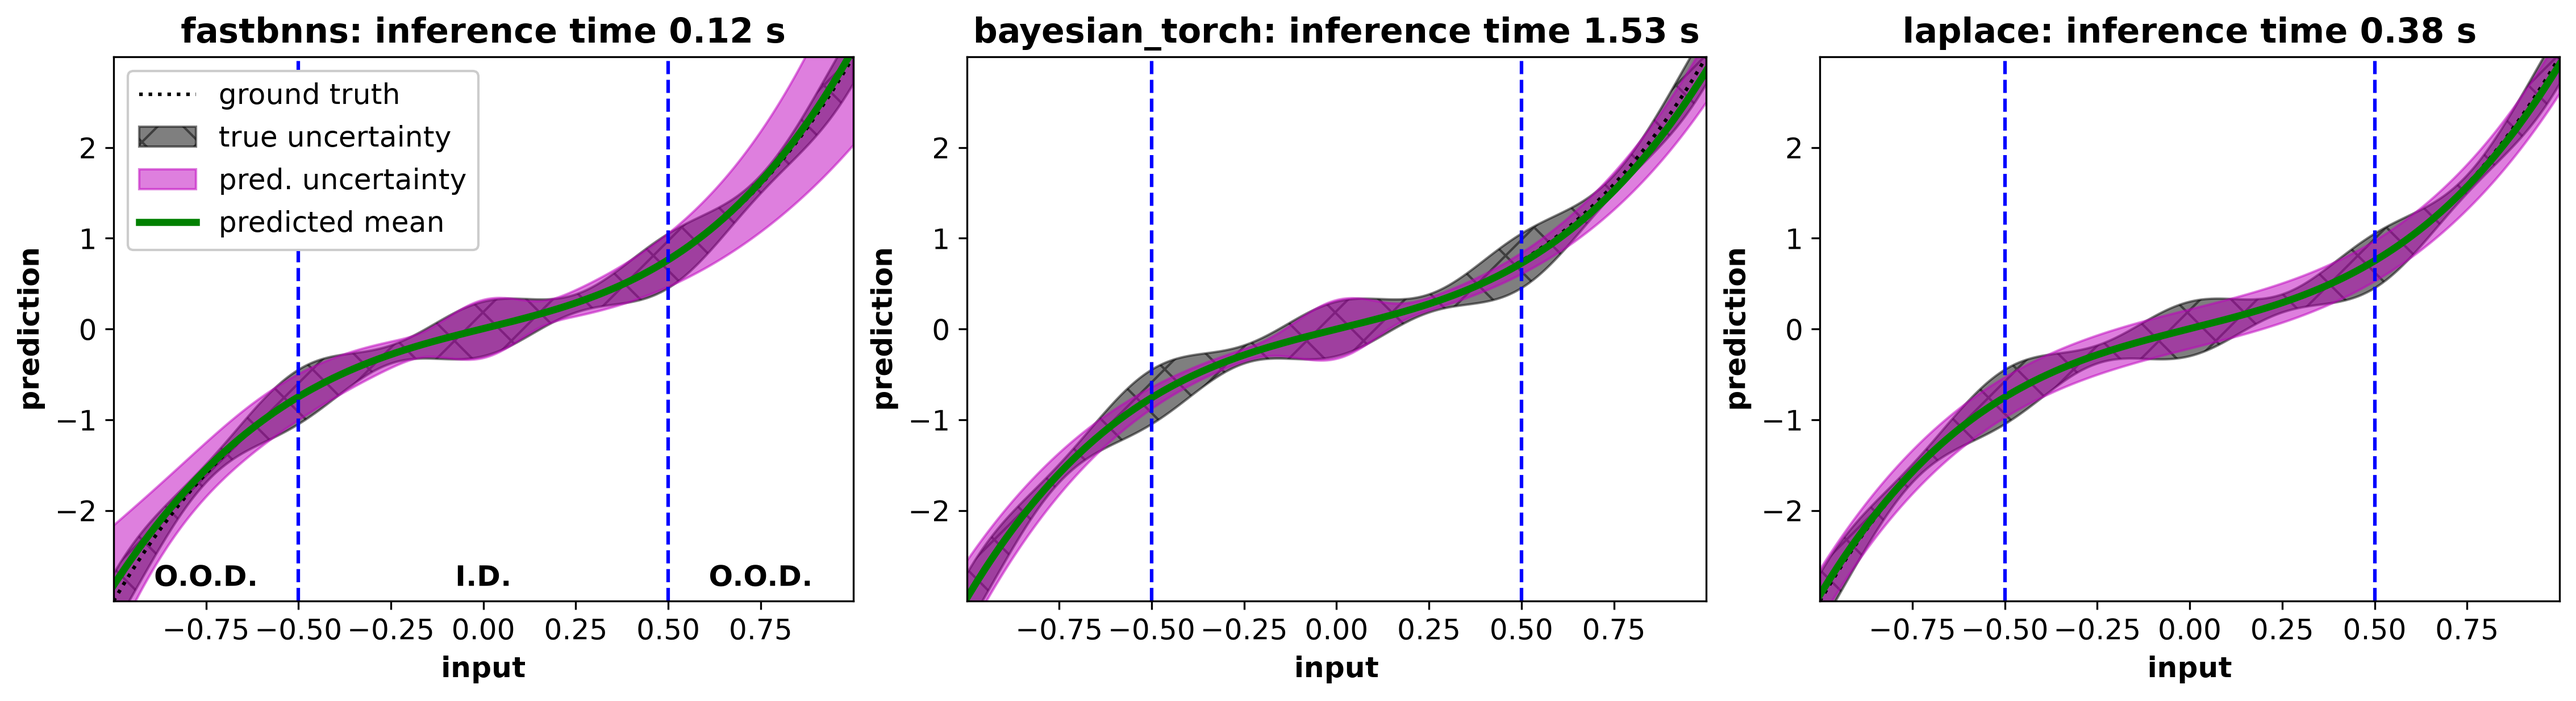
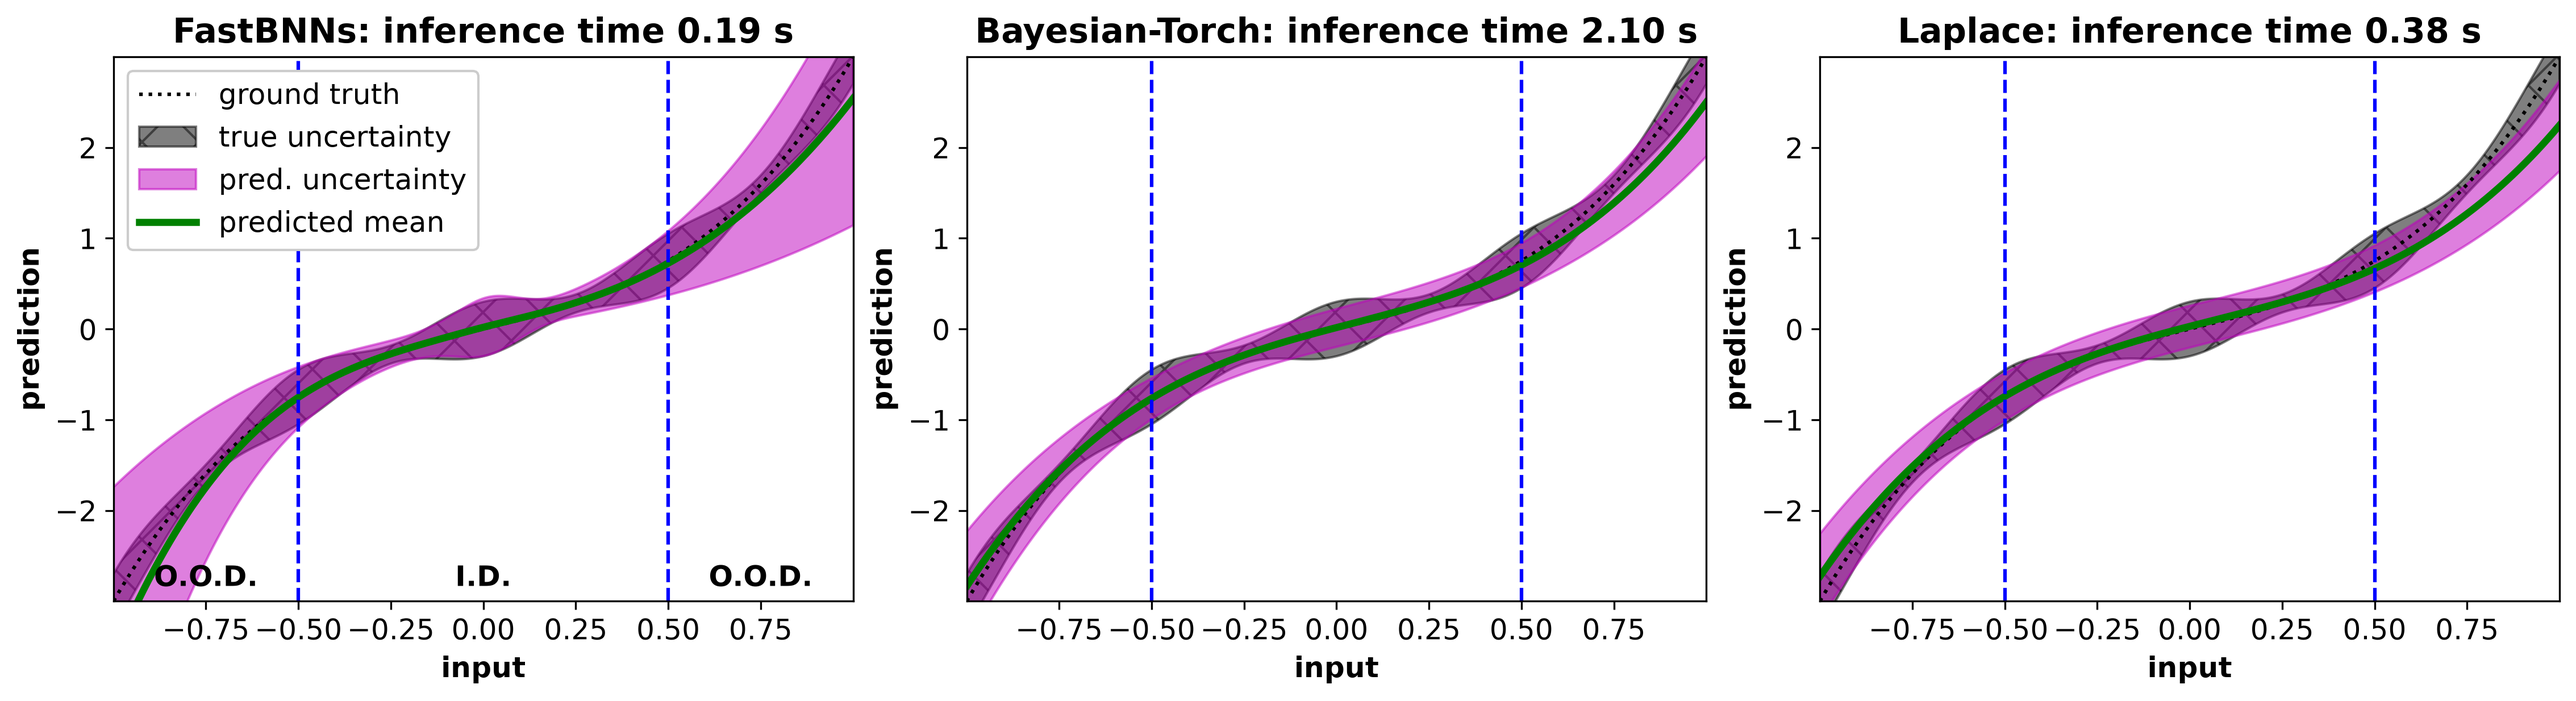
Fix bug in comparison code (#27)

diff --git a/comparisons/polynomial.py b/comparisons/polynomial.py
@@ -75,8 +75,8 @@ noise_tform = observation.NoiseTransform(
         "sigma": lambda x: 0.1 + 0.2 * (torch.cos(2.0 * torch.pi * x) ** 2)
     },
 )
-n_data = 1024 * 5
-batch_size = 1024
+n_data = 1024
+batch_size = 128
 ds_train = polynomial.Polynomial(
     data_generator=data_generator,
     dataset_length=n_data,
@@ -84,7 +84,7 @@ ds_train = polynomial.Polynomial(
     cache=True,  # set False to use fresh data every epoch
 )
 dl_train = torch.utils.data.DataLoader(dataset=ds_train, batch_size=batch_size)
-n_data_val = 1024
+n_data_val = 128
 ds_val = polynomial.Polynomial(
     data_generator=data_generator,
     dataset_length=n_data_val,
@@ -162,7 +162,7 @@ for epoch in range(n_epochs_max):
             f"epoch {epoch + 1} of {n_epochs_max}: train mse = {avg_loss_train}, val mse = {avg_loss_val}"
         )
         if stop_early:
-            print(f"Stopping early at epoch {epoch} due to val loss plateau")
+            print(f"Stopping early at epoch {epoch + 1} due to val loss plateau")
             break
 
 nn.load_state_dict(best_model_state_dict_nn)
@@ -285,7 +285,7 @@ for epoch in range(n_epochs_max):
             f"epoch {epoch + 1} of {n_epochs_max}: train -ELBO = {avg_loss_train}, val -ELBO = {avg_loss_val}, {100.0 * torch.mean(torch.stack(within_1sigma_epoch_val)):.2f}% within 1 st. dev."
         )
         if stop_early:
-            print(f"Stopping early at epoch {epoch} due to val loss plateau")
+            print(f"Stopping early at epoch {epoch + 1} due to val loss plateau")
             break
 
 bnn.load_state_dict(best_model_state_dict_fastbnns)
@@ -398,12 +398,12 @@ for epoch in range(n_epochs_max):
             f"epoch {epoch + 1} of {n_epochs_max}: train -ELBO = {avg_loss_train}, val -ELBO = {avg_loss_val}, {100.0 * torch.mean(torch.stack(within_1sigma_epoch_val)):.2f}% within 1 st. dev."
         )
         if stop_early:
-            print(f"Stopping early at epoch {epoch} due to val loss plateau")
+            print(f"Stopping early at epoch {epoch + 1} due to val loss plateau")
             break
 
 bnn_bayestorch.load_state_dict(best_model_state_dict_bayestorch)
 
-# Use laplace-torch to get a BNN from pretrained NN.
+# Use Laplace to get a BNN from pretrained NN.
 prior_precision = 1.0 / prior_sigma**2
 la = laplace.DiagLaplace(
     nn,
@@ -542,7 +542,7 @@ ax[0].plot(
     linestyle="-",
     label="predicted mean",
 )
-ax[0].set_title(f"fastbnns: inference time {t_fastbnns:.2f} s")
+ax[0].set_title(f"FastBNNs: inference time {t_fastbnns:.2f} s")
 ax[0].set_xlabel("input")
 ax[0].set_ylabel("prediction")
 ax[0].set_xlim((x.min(), x.max()))
@@ -568,7 +568,7 @@ y_var_aleatoric_bayestorch = (
 y_var_epistemic_bayestorch = (
     output_bayestorch[1][:, 0].detach().cpu().squeeze()[sort_inds]
 )
-yerr_bayestorch = (y_var_aleatoric_fastbnns + y_var_epistemic_bayestorch).sqrt()
+yerr_bayestorch = (y_var_aleatoric_bayestorch + y_var_epistemic_bayestorch).sqrt()
 ax[1].plot(x, y_gt, color="k", linestyle=":", label="ground truth")
 ax[1].fill_between(
     x=x,
@@ -596,7 +596,7 @@ ax[1].plot(
     linestyle="-",
     label="predicted mean",
 )
-ax[1].set_title(f"bayesian_torch: inference time {t_bayestorch:.2f} s")
+ax[1].set_title(f"Bayesian-Torch: inference time {t_bayestorch:.2f} s")
 ax[1].set_xlabel("input")
 ax[1].set_ylabel("prediction")
 ax[1].set_xlim((x.min(), x.max()))
@@ -637,7 +637,7 @@ ax[2].plot(
     linestyle="-",
     label="predicted mean",
 )
-ax[2].set_title(f"laplace: inference time {t_laplace:.2f} s")
+ax[2].set_title(f"Laplace: inference time {t_laplace:.2f} s")
 ax[2].set_xlabel("input")
 ax[2].set_ylabel("prediction")
 ax[2].set_xlim((x.min(), x.max()))
@@ -649,25 +649,25 @@ plt.close(fig)
 
 # Test set MSEs:
 loss_mse = torch.nn.MSELoss(reduction="mean")
-print(f"test set MSE fastbnns: {loss_mse(input=y_fastbnns, target=observations)}")
+print(f"test set MSE FastBNNs: {loss_mse(input=y_fastbnns, target=observations)}")
 print(
-    f"test set MSE bayesian-torch: {loss_mse(input=y_bayestorch, target=observations)}"
+    f"test set MSE Bayesian-Torch: {loss_mse(input=y_bayestorch, target=observations)}"
 )
-print(f"test set MSE laplace: {loss_mse(input=y_laplace, target=observations)}")
+print(f"test set MSE Laplace: {loss_mse(input=y_laplace, target=observations)}")
 
 # Test set likelihoods:
 loss_gnll = torch.nn.GaussianNLLLoss(reduction="mean")
 print(
-    f"test set GNLL fastbnns: {loss_gnll(input=y_fastbnns, target=observations, var=yerr_fastbnns**2)}"
+    f"test set GNLL FastBNNs: {loss_gnll(input=y_fastbnns, target=observations, var=yerr_fastbnns**2)}"
 )
 print(
-    f"test set GNLL bayesian-torch: {loss_gnll(input=y_bayestorch, target=observations, var=yerr_bayestorch**2)}"
+    f"test set GNLL Bayesian-Torch: {loss_gnll(input=y_bayestorch, target=observations, var=yerr_bayestorch**2)}"
 )
 print(
-    f"test set GNLL laplace: {loss_gnll(input=y_laplace, target=observations, var=yerr_laplace**2)}"
+    f"test set GNLL Laplace: {loss_gnll(input=y_laplace, target=observations, var=yerr_laplace**2)}"
 )
 
 # Time comparisons:
-print(f"inference runtime fastbnns: {t_fastbnns}")
-print(f"inference runtime bayesian-torch: {t_bayestorch}")
-print(f"inference runtime laplace: {t_laplace}")
+print(f"inference runtime FastBNNs: {t_fastbnns}")
+print(f"inference runtime Bayesian-Torch: {t_bayestorch}")
+print(f"inference runtime Laplace: {t_laplace}")
